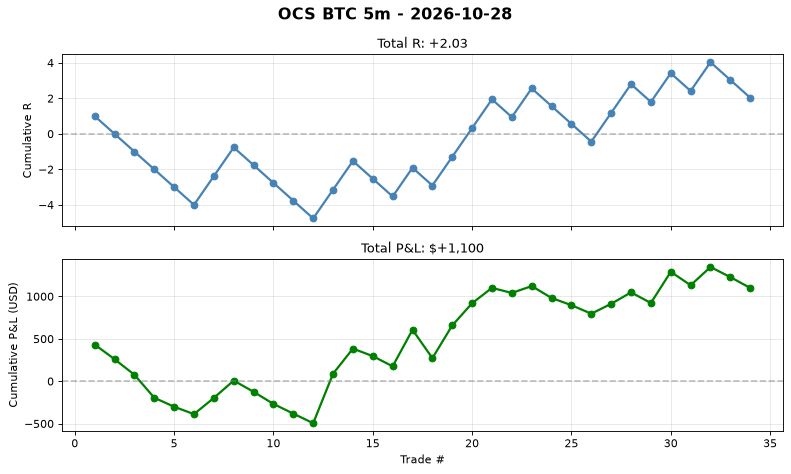
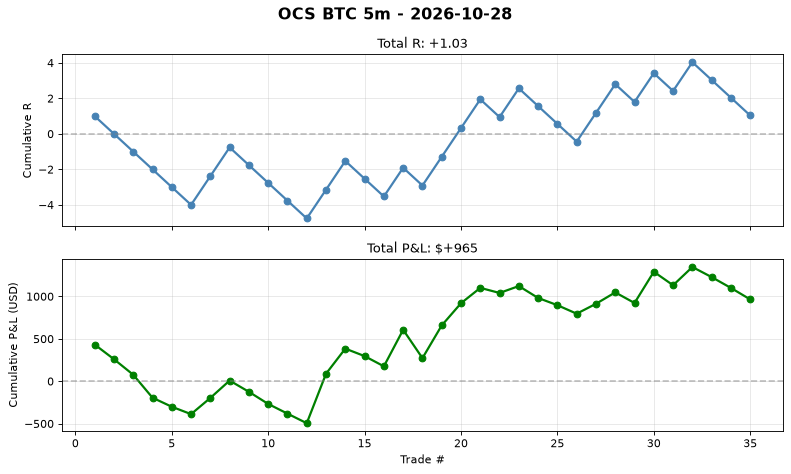
auto(ocs-btc): signal log 2026-10-27T23:47 trades=35

diff --git a/automation/reports/ocs_btc_5m/daily/2026-10-28.md b/automation/reports/ocs_btc_5m/daily/2026-10-28.md
@@ -2,4 +2,4 @@
 
 **No trades today.**
 
-Cumulative stats: 34 trades | WR 41.2% | avg R 0.06
+Cumulative stats: 35 trades | WR 40.0% | avg R 0.03
